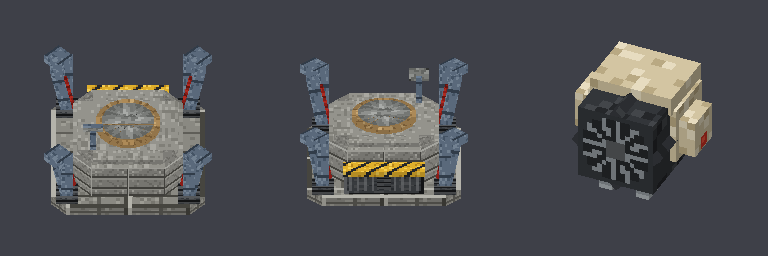
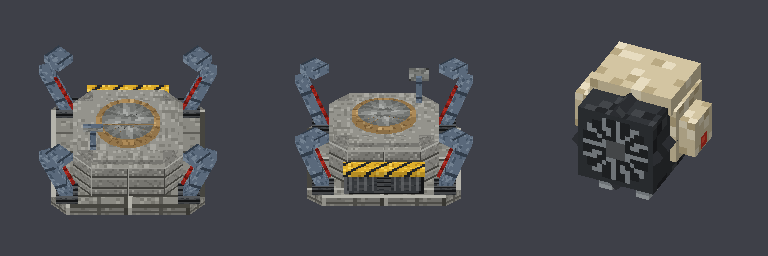
fix: roboport models use only element rotations Minecraft allows
The corner pylons leaned 11.25°, so four roboport piece models and the item model failed to load (missing-texture cube).

diff --git a/art/gen_robots.py b/art/gen_robots.py
@@ -344,15 +344,14 @@ def roboport():
     for sx, sz in ((-1, -1), (1, -1), (-1, 1), (1, 1)):
         cx, cz = 24.5 * sx, 24.5 * sz
         m.cbox(cx, cz, 9, 9, 4, 7, "mach")
-        m.box([cx - 2.5, 6, cz - 2.5], [cx + 2.5, 30, cz + 2.5], "pylon", rot=("z", -11.25 * sx, [cx, 6, cz]))
-        m.box([cx - 2.4 + EPS, 6 + EPS, cz - 2.4], [cx + 2.4 - EPS, 30 - EPS, cz + 2.4], "pylon",
-              rot=("x", 11.25 * sz, [cx, 6, cz]))
+        # Minecraft only allows 0/±22.5/±45° element rotations, so the post leans out along x only
+        m.box([cx - 2.5, 6, cz - 2.5], [cx + 2.5, 30, cz + 2.5], "pylon", rot=("z", -22.5 * sx, [cx, 6, cz]))
         # bracket head pointing outward diagonally, white-lit pylon steel
         hx, hz = cx + 3.5 * sx, cz + 3.5 * sz
         m.box([hx - 4, 28, hz - 4], [hx + 4, 32, hz + 4], "pylon", rot=("y", 45, [hx, 28, hz]))
         # red cable down the inner face
         m.box([cx - 3.2 * sx - 0.6, 7, cz - 0.6 - 3.2 * sz], [cx - 3.2 * sx + 0.6, 26, cz + 0.6 - 3.2 * sz], "cable",
-              rot=("z", -11.25 * sx, [cx, 6, cz]))
+              rot=("z", -22.5 * sx, [cx, 6, cz]))
     # antenna mast with a small dish at the back-left corner of the roof
     ax, az = -14, 15
     m.cbox(ax, az, 2.5, 2.5, 22, 34, "pylon")
